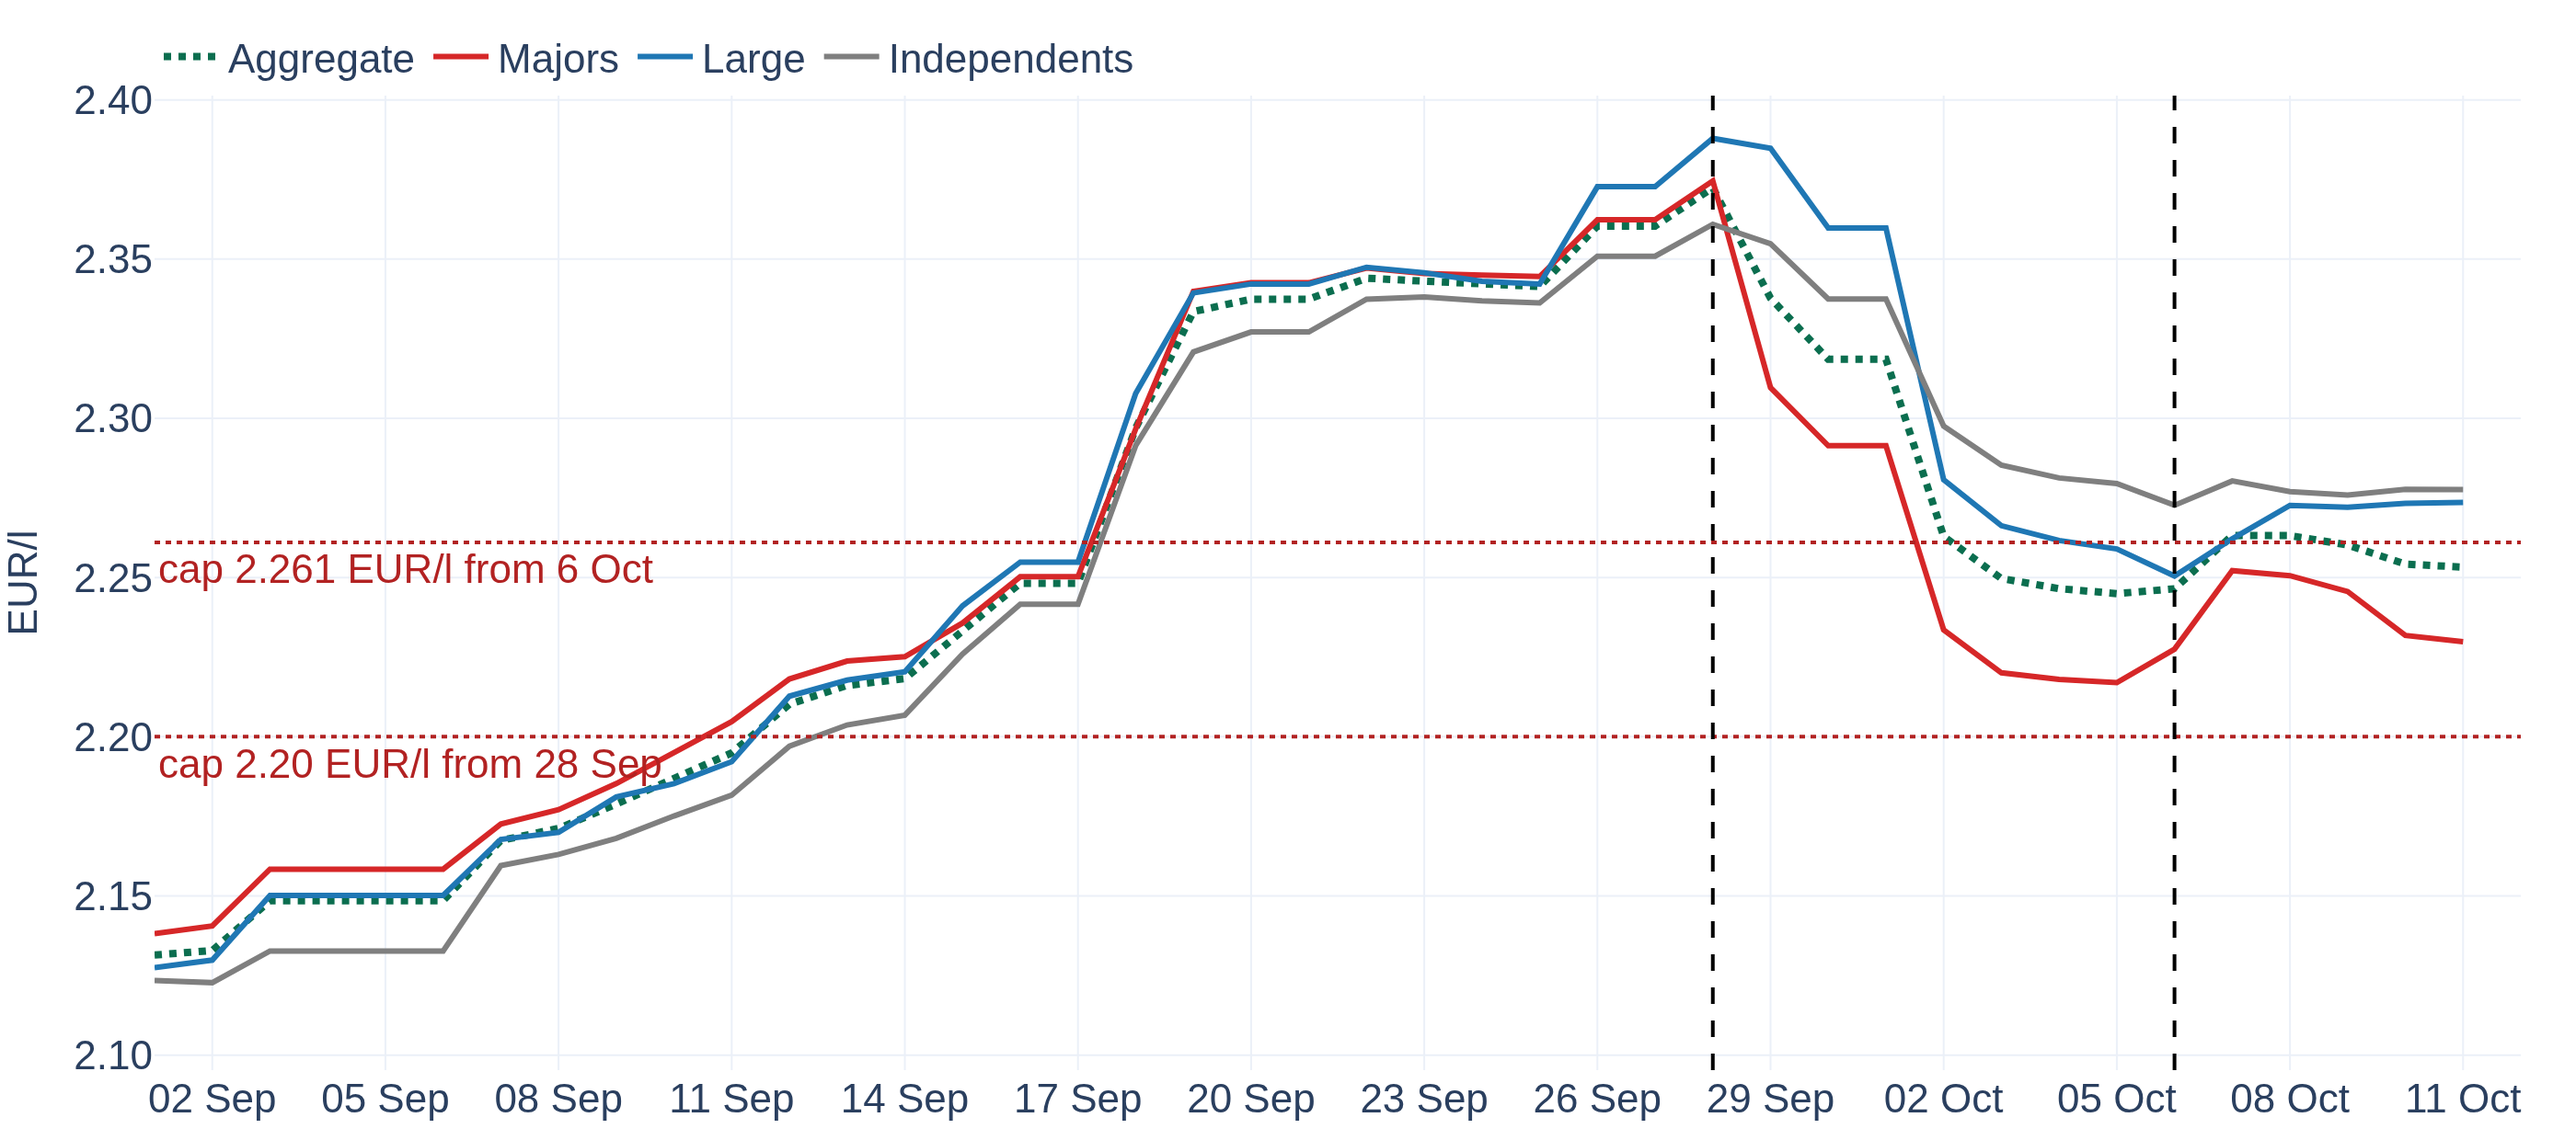
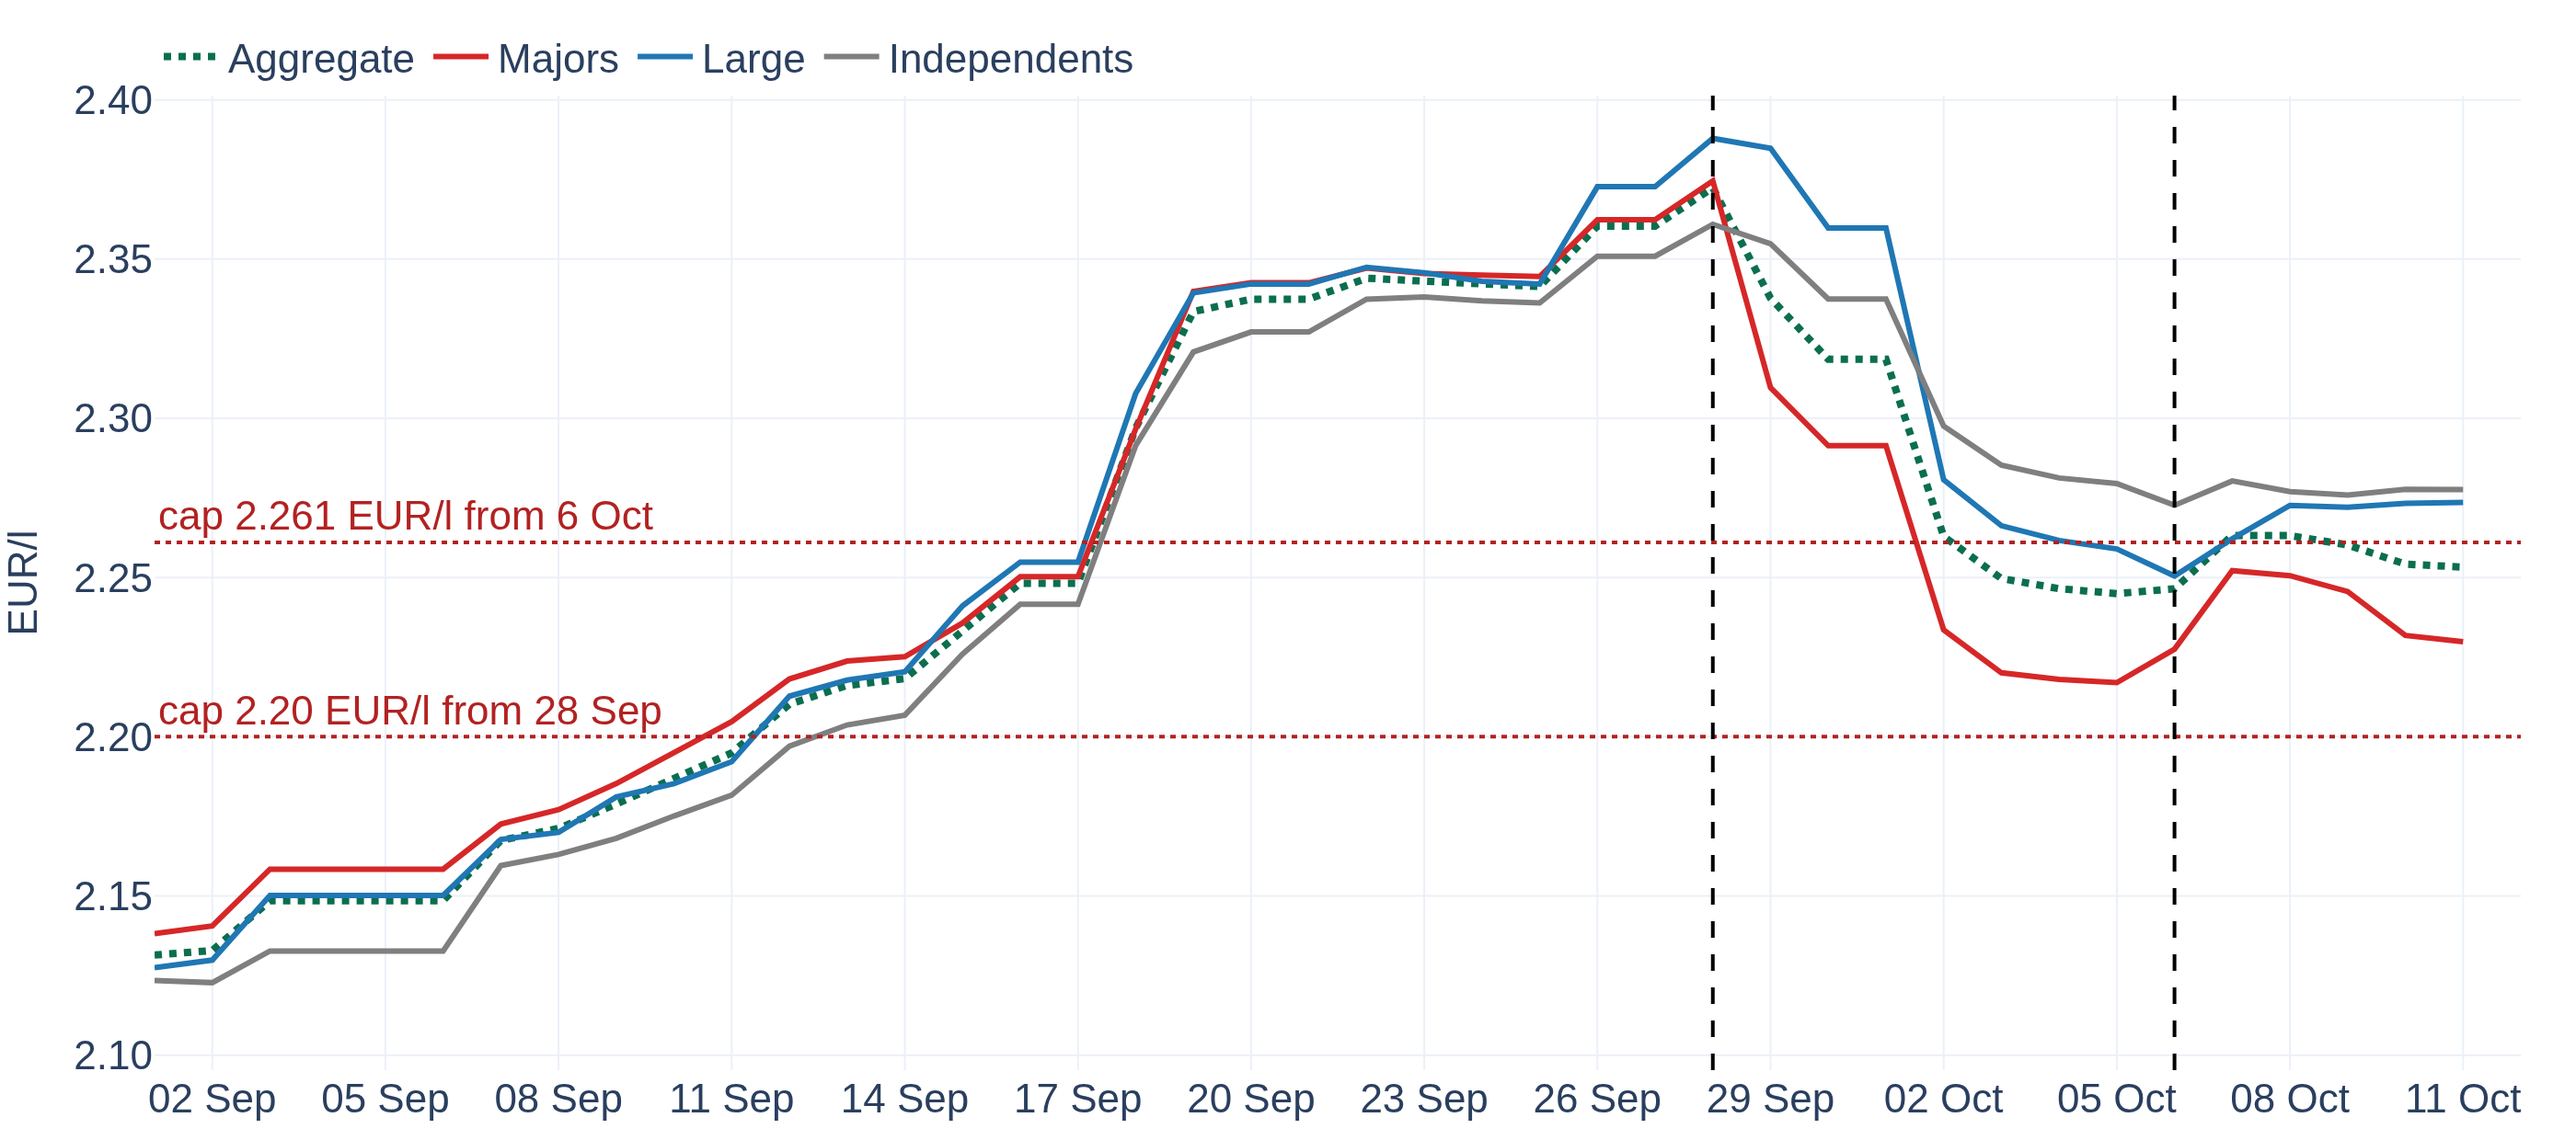
Report figures: cap labels above hlines; fig 3 as single two-line panel
- Figs 1-2: 'cap ... from dd' labels now sit above their dotted cap
  lines instead of below.
- Fig 3: collapsed to a single panel with two lines (Petrol blue,
  Diesel red) and a top legend; vlines at 28 Sep / 6 Oct kept, no
  in-panel text; same size and fonts as figs 1-2.

Changed region(s): [[0.0621, 0.429, 0.2486, 0.521], [0.0621, 0.6129, 0.2486, 0.7048]]

diff --git a/adoption/make_report_figs.py b/adoption/make_report_figs.py
@@ -94,14 +94,14 @@ def group_price_chart_en(fuel: str, show_excise_line: bool, stem: str) -> Path:
     fig.add_hline(
         y=threshold, line_dash="dot", line_color="firebrick",
         annotation_text=f"cap {threshold:.2f} EUR/l from 28 Sep",
-        annotation_position="bottom left",
+        annotation_position="top left",
         annotation_font=dict(size=FONT, color="firebrick"),
     )
     if fuel == "Gasolio" and overall["date"].max() >= EXCISE_STEP:
         fig.add_hline(
             y=config.GASOLIO_CAP_AFTER, line_dash="dot", line_color="firebrick",
             annotation_text=f"cap {config.GASOLIO_CAP_AFTER:.3f} EUR/l from 6 Oct",
-            annotation_position="bottom left",
+            annotation_position="top left",
             annotation_font=dict(size=FONT, color="firebrick"),
         )
     # vlines carry no text labels (d)
@@ -143,7 +143,7 @@ def group_price_chart_en(fuel: str, show_excise_line: bool, stem: str) -> Path:
 
 
 def fig3_adoption_share() -> Path:
-    """Item (e): pre-cap days included, cap vline/hline labels, Petrol/Diesel."""
+    """Single panel, two lines (Petrol/Diesel), no in-panel text."""
     panel = pl.read_parquet(ADOPT_TAB / "adoption_panel.parquet")
     d = (
         panel.filter(pl.col("date") >= FIG3_CUT)
@@ -152,128 +152,37 @@ def fig3_adoption_share() -> Path:
         .sort(["fuel", "date"])
     )
 
-    fig = make_subplots(
-        rows=2, cols=1, shared_xaxes=True, vertical_spacing=0.10,
-        subplot_titles=("Petrol", "Diesel"),
-    )
+    fig = go.Figure()
     colors = {"Benzina": "#1f77b4", "Gasolio": "#d62728"}
-    for r, fuel in enumerate(["Benzina", "Gasolio"], start=1):
+    names = {"Benzina": "Petrol", "Gasolio": "Diesel"}
+    for fuel in ["Benzina", "Gasolio"]:
         sub = d.filter(pl.col("fuel") == fuel)
         fig.add_trace(
             go.Scatter(
                 x=sub["date"], y=sub["share"] * 100, mode="lines+markers",
+                name=names[fuel],
                 line=dict(color=colors[fuel], width=LINE_W), marker=dict(size=9),
-                showlegend=False,
-            ),
-            row=r, col=1,
+            )
         )
     # cap / cap-change vlines, no in-panel text labels
-    fig.add_vline(x=CAP_DATE.isoformat(), line_dash="dash", line_color="black",
-                  row=1, col=1)
-    fig.add_vline(x=CAP_DATE.isoformat(), line_dash="dash", line_color="black",
-                  row=2, col=1)
-    fig.add_vline(x=EXCISE_STEP.isoformat(), line_dash="dash", line_color="black",
-                  row=2, col=1)
+    fig.add_vline(x=CAP_DATE.isoformat(), line_dash="dash", line_color="black")
+    fig.add_vline(x=EXCISE_STEP.isoformat(), line_dash="dash", line_color="black")
     fig.update_xaxes(
         tickformat="%d %b", tickangle=0, dtick=2 * 86400000,
         tickfont=dict(size=FONT),
         range=[FIG3_CUT, d["date"].max() + dt.timedelta(days=1)],
     )
-    fig.update_yaxes(ticksuffix="%", tickfont=dict(size=FONT),
-                     range=[-2, 80])
-    fig.update_yaxes(title=dict(text="Cap adoption rate", font=dict(size=FONT)),
-                     row=1, col=1)
-    fig.update_yaxes(title=dict(text="Cap adoption rate", font=dict(size=FONT)),
-                     row=2, col=1)
+    fig.update_yaxes(
+        ticksuffix="%", tickfont=dict(size=FONT), range=[-2, 80],
+        title=dict(text="Cap adoption rate", font=dict(size=FONT)),
+    )
     fig.update_layout(
-        font=dict(size=FONT), margin=dict(l=10, r=170, t=95, b=10),
-        template="plotly_white", width=1500, height=900, showlegend=False,
-    )
-    for ann in fig.layout.annotations:
-        if ann.text in ("Petrol", "Diesel"):
-            ann.font = dict(size=FONT * 2)
-    out = FIG / "3_adoption_share_daily.png"
-    fig.write_image(out, scale=2)
-    return out
-
-
-BRAND_ORDER = ("Agip Eni", "Api-Ip", "Q8", "Esso", "Tamoil", "Shell", "Pompe Bianche")
-BRAND_COLORS = {
-    "Agip Eni": "#D62728", "Api-Ip": "#FF7F0E", "Q8": "#9467BD",
-    "Esso": "#1F77B4", "Tamoil": "#8C564B", "Shell": "#00BCD4",
-    "Pompe Bianche": "#7F7F7F",
-}
-BRAND_EN = {"Pompe Bianche": "Independent"}
-
-
-def brand_price_chart(fuel: str, show_excise_vline: bool, stem: str) -> Path:
-    """Numbered variant of the brand chart: from 1 Sep, aggregate line added,
-    Pompe Bianche renamed Independent, style of figs 1/2 (no title, FONT,
-    thick lines, 3-day ticks, tight y range incl. cap lines)."""
-    daily = pl.read_csv(config.TABLES_DIR / "brand_daily_prices.csv",
-                        try_parse_dates=True)
-    d = daily.filter(pl.col("fuel") == fuel).filter(pl.col("date") >= CUT)
-
-    fig = go.Figure()
-    agg = d.group_by("date").agg(p=pl.col("mean_price").mean()).sort("date")
-    fig.add_trace(
-        go.Scatter(x=agg["date"], y=agg["p"], mode="lines", name=AGG_EN,
-                   line=dict(color=AGG_COLOR, width=LINE_W + 1, dash="dot"))
-    )
-    for brand in BRAND_ORDER:
-        s = d.filter(pl.col("canonical_name") == brand).sort("date")
-        if not s.height:
-            continue
-        fig.add_trace(
-            go.Scatter(x=s["date"], y=s["mean_price"], mode="lines",
-                       name=BRAND_EN.get(brand, brand),
-                       line=dict(color=BRAND_COLORS[brand], width=LINE_W))
-        )
-
-    threshold = config.THRESHOLDS[fuel]
-    caps = [threshold]
-    fig.add_hline(
-        y=threshold, line_dash="dot", line_color="firebrick",
-        annotation_text=f"cap {threshold:.2f} EUR/l from 28 Sep",
-        annotation_position="top left",
-        annotation_font=dict(size=FONT, color="firebrick"),
-    )
-    if fuel == "Gasolio":
-        fig.add_hline(
-            y=config.GASOLIO_CAP_AFTER, line_dash="dot", line_color="firebrick",
-            annotation_text=f"cap {config.GASOLIO_CAP_AFTER:.3f} EUR/l from 6 Oct",
-            annotation_position="top left",
-            annotation_font=dict(size=FONT, color="firebrick"),
-        )
-        caps.append(config.GASOLIO_CAP_AFTER)
-    fig.add_vline(x=CAP_DATE.isoformat(), line_dash="dash", line_color="black")
-    if show_excise_vline:
-        fig.add_vline(x=EXCISE_STEP.isoformat(), line_dash="dash", line_color="black")
-
-    y_min = min(d["mean_price"].min(), *caps)
-    y_max = max(d["mean_price"].max(), *caps)
-    pad = (y_max - y_min) * 0.06
-    pad_hi = (y_max - y_min) * 0.12
-    pad_lo = pad * 2.5
-    fig.update_layout(
-        font=dict(size=FONT),
-        margin=dict(l=10, r=30, t=15, b=10),
-        template="plotly_white",
-        hovermode="x unified",
-        width=1400,
-        height=620,
+        font=dict(size=FONT), margin=dict(l=10, r=30, t=15, b=10),
+        template="plotly_white", width=1400, height=620,
         showlegend=True,
         legend=dict(orientation="h", yanchor="bottom", y=1.0, xanchor="left", x=0),
     )
-    fig.update_xaxes(
-        tickformat="%d %b", tickangle=0, dtick=3 * 86400000,
-        range=[CUT, d["date"].max() + dt.timedelta(days=1)],
-    )
-    fig.update_yaxes(
-        tickformat=".2f", range=[y_min - pad_lo, y_max + pad_hi],
-        title=dict(text="EUR/l", font=dict(size=FONT)),
-    )
-    out = FIG / f"{stem}.png"
+    out = FIG / "3_adoption_share_daily.png"
     fig.write_image(out, scale=2)
     return out
 
